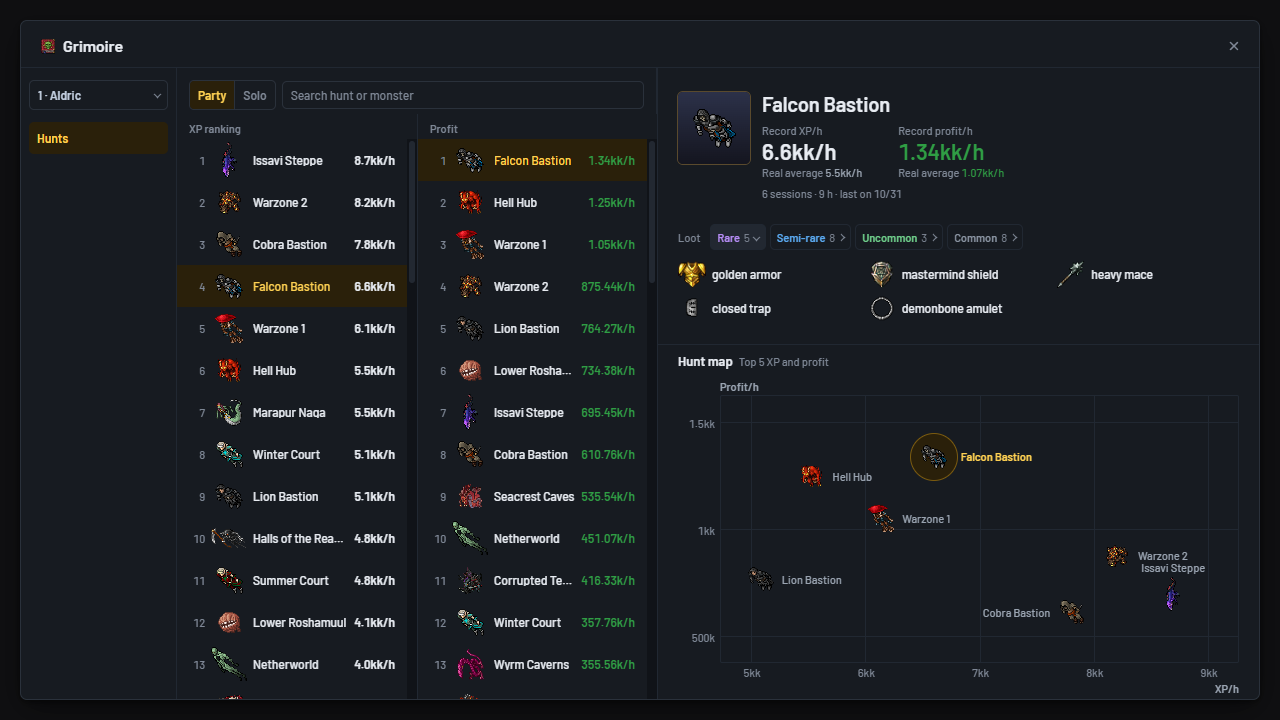
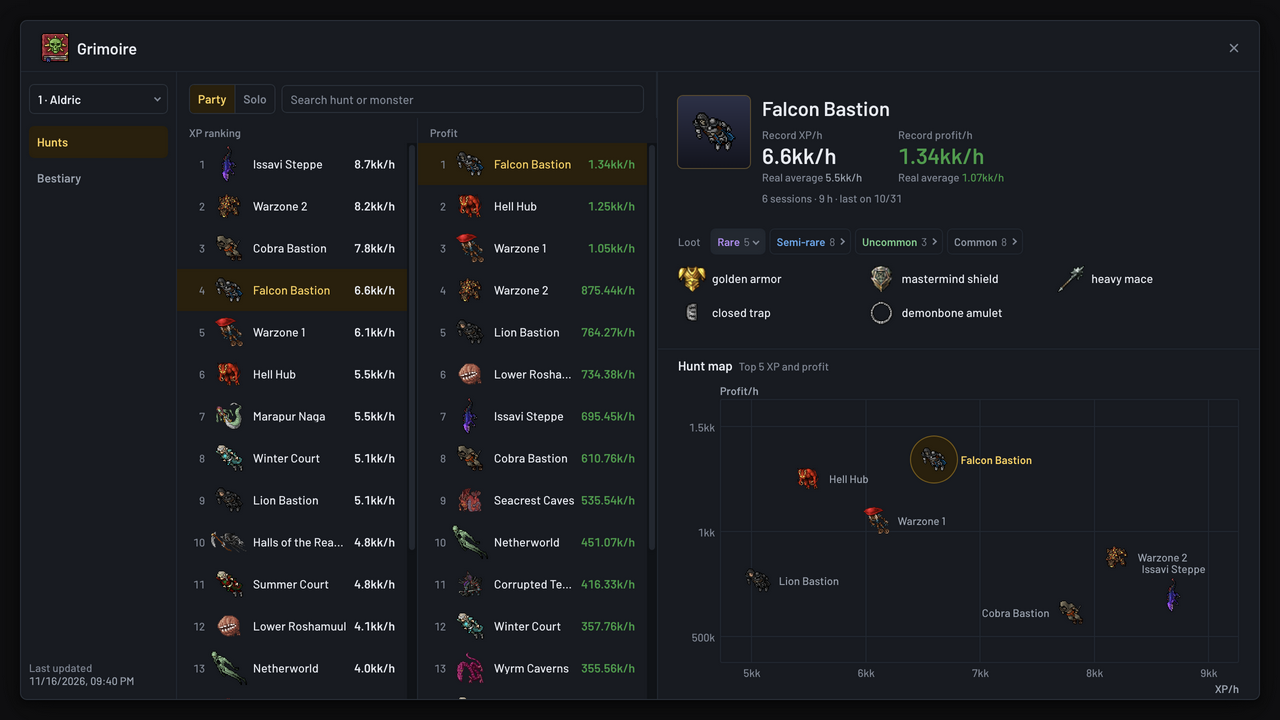
Atualiza a pagina do IdleXP (README.en.md, README.md, imagens/bestiario.en.png, imagens/bestiario.png, imagens/grimorio.en.png, imagens/grimorio.png)

diff --git a/README.en.md b/README.en.md
@@ -31,10 +31,50 @@
 
 ---
 
+## What you get
+
+- **Every account's XP/h and Profit/h, live**, without having to open any of their games.
+- **The hunt that pays best**, in an XP and a profit ranking with each hunt's loot.
+- **Your bestiary finished faster**, with a route of hunts in the most efficient order.
+- **A warning the moment** the hunt stops, the character dies or stamina, a prey or an imbuement
+  is running out.
+- **Four accounts and a calm PC**: up to 96% less processor with economy mode.
+
+### Every account's Hunt Analyzer, without opening the game
+
+In **economy mode** the account keeps hunting with the browser closed, and in place of the game
+there is this panel: XP/h, Profit/h and margin, the preys with the time left, the imbuements on
+each piece of gear and the hunt's bestiary, with how much is left for each stage. In the sidebar,
+the whole party with each member's DPS, healing and spend.
+
 <p align="center">
   <img src="imagens/painel-economia.en.png" alt="The economy mode panel, in three columns: XP per hour, profit, preys, your gear's imbuements and the hunt's bestiary, with the accounts and the party in the sidebar">
   <br>
   <sub>The economy mode panel. Illustrative image, with sample data.</sub>
+</p>
+
+### Which hunt gives the most XP and profit
+
+The **Grimoire** keeps the record of every hunt you have done, per account and per mode, party or
+solo. Two rankings side by side, each hunt's loot by rarity and a map that compares the best ones
+at a glance.
+
+<p align="center">
+  <img src="imagens/grimorio.en.png" alt="The Grimoire: the hunt ranking by XP and by profit, the sheet of the selected hunt with its loot by rarity, and the map comparing the best ones">
+  <br>
+  <sub>The Grimoire, Hunts tab. Illustrative image, with sample data.</sub>
+</p>
+
+### The shortest way through the bestiary
+
+On the **Bestiary** tab, the Grimoire crosses your kills with each hunt's speed and tells you which
+hunts give the most bestiary per hour of stamina, how long until each monster is done, and a route
+in the most efficient order, for the next level or for the next damage bonus.
+
+<p align="center">
+  <img src="imagens/bestiario.en.png" alt="The Grimoire's Bestiary: the hunts that give the most bestiary per hour, the fastest monsters to close, the sheet of the selected hunt with each monster's progress, and the most efficient route">
+  <br>
+  <sub>The Grimoire, Bestiary tab. Illustrative image, with sample data.</sub>
 </p>
 
 ## Why IdleXP
@@ -61,15 +101,8 @@ And each account that leaves the screen, on its own: from **776 MB and 27% of on
 same hunt and one signed out, two 60-second windows, the only difference being economy mode. The
 numbers on your PC will be different; the ratio is what counts.</sub>
 
-## What it does
+## Everything it does
 
-- **Four accounts, four saved logins.** Each account has its own space: one cannot see another, and
-  you do not have to sign in again every time you open the app. If you want, the app keeps each
-  account's e-mail and password, encrypted by your system's vault, and fills in the login page.
-- **The screen your way.** From 1 to 4 screens side by side, or one large one with the others
-  alongside, and the layouts turn with a monitor standing up. Drag the sidebar cards to swap the
-  accounts around, and collapse the sidebar to give the game more room. F1 to F4 switch accounts
-  from the keyboard (on the Mac, Cmd+1 to Cmd+4). Adjustable zoom and full screen.
 - **Economy mode.** The account keeps hunting, but with no browser open. In place of the game there
   is a panel in sections that collapse with a click: health, mana, stamina, level, **XP/h**,
   **Profit/h**, the active **preys**, the hunt's **bestiary**, with how much is left for each stage, and
@@ -82,28 +115,29 @@ numbers on your PC will be different; the ratio is what counts.</sub>
   the most efficient order. The numbers come from the game itself, and everything stays on your computer.
 - **Your party in the sidebar.** With at least one account in economy mode, the sidebar shows the
   party ordered from highest damage to lowest, with each member's **DPS**, healing and spend.
-- **Automatic economy.** In the 1-to-3-screen layouts, accounts that stay off screen enter economy
-  mode on their own after 2 minutes.
 - **Alerts you even with the app out of sight.** When an account in economy mode needs you — the
   hunt stopped, the character died, or stamina, a prey or an imbuement is running out — a system
   notification arrives, the icon flashes and a sound plays. On the bell in the sidebar you choose
   what alerts you, how far ahead and how.
-- **In Portuguese or English.** Pick the language on the globe in the opening window, before the
-  accounts load. The first time, the app follows your system's language.
+- **Automatic economy.** In the 1-to-3-screen layouts, accounts that stay off screen enter economy
+  mode on their own after 2 minutes.
+- **Four accounts, four saved logins.** Each account has its own space: one cannot see another, and
+  you do not have to sign in again every time you open the app. If you want, the app keeps each
+  account's e-mail and password, encrypted by your system's vault, and fills in the login page.
+- **The screen your way.** From 1 to 4 screens side by side, or one large one with the others
+  alongside, and the layouts turn with a monitor standing up. Drag the sidebar cards to swap the
+  accounts around, and collapse the sidebar to give the game more room. F1 to F4 switch accounts
+  from the keyboard (on the Mac, Cmd+1 to Cmd+4). Adjustable zoom and full screen.
 - **Hides names for screenshots and streams.** One click blacks out the character names in the app
   and, inside the game, on the map, in the party, in the header, in the Hunt Analyzer and in the friends
   and guild lists.
+- **In Portuguese or English.** Pick the language on the globe in the opening window, before the
+  accounts load. The first time, the app follows your system's language.
 - **Updates itself.** On opening, IdleXP checks for a new version, downloads and installs it before
   any account opens. You download once. (On the Mac, as long as it is in the Applications folder — see below.)
 
 > Economy mode follows the character while it hunts offline (VIP). It does not keep a hunt going
 > that the game would not keep going.
-
-<p align="center">
-  <img src="imagens/grimorio.en.png" alt="The Grimoire: the hunt ranking by XP and by profit, the sheet of the selected hunt with its loot by rarity, and the map comparing the best ones">
-  <br>
-  <sub>The Grimoire. Illustrative image, with sample data.</sub>
-</p>
 
 ## Install
 

diff --git a/README.md b/README.md
@@ -31,10 +31,50 @@
 
 ---
 
+## O que você ganha
+
+- **XP/h e Profit/h de cada conta, ao vivo**, sem precisar abrir o jogo de nenhuma delas.
+- **A caçada que mais rende**, num ranking de XP e de profit com o loot de cada uma.
+- **O bestiário fechado mais rápido**, com um roteiro de caçadas na ordem mais eficiente.
+- **Um aviso na hora** em que a caçada para, o personagem morre ou a stamina, uma prey ou um
+  imbuement está acabando.
+- **Quatro contas e o PC tranquilo**: até 96% menos processador com o modo economia.
+
+### Hunt Analyzer de cada conta, sem abrir o jogo
+
+No **modo economia** a conta continua caçando com o navegador fechado, e no lugar do jogo fica
+este painel: XP/h, Profit/h e rentabilidade, as preys com o tempo que resta, os imbuements de
+cada peça do equipamento e o bestiário da caçada, com quanto falta para cada fase. Na barra, a
+party inteira com o DPS, a cura e o gasto de cada um.
+
 <p align="center">
   <img src="imagens/painel-economia.png" alt="O painel do modo economia, em três colunas: XP por hora, profit, preys, imbuements do equipamento e bestiário da caçada, com as contas e a party na barra lateral">
   <br>
   <sub>O painel do modo economia. Imagem ilustrativa, com dados de exemplo.</sub>
+</p>
+
+### Qual caçada dá mais XP e mais profit
+
+O **Grimório** guarda o recorde de cada caçada que você fez, por conta e por modo, party ou solo.
+Dois rankings lado a lado, o loot de cada caçada por raridade e um mapa que compara as melhores
+de uma vez.
+
+<p align="center">
+  <img src="imagens/grimorio.png" alt="O Grimório: o ranking de caçadas por XP e por profit, a ficha da caçada selecionada com o loot por raridade, e o mapa comparando as melhores">
+  <br>
+  <sub>O Grimório, aba Caçadas. Imagem ilustrativa, com dados de exemplo.</sub>
+</p>
+
+### O caminho mais curto no bestiário
+
+Na aba **Bestiário**, o Grimório cruza os seus abates com a velocidade de cada caçada e diz quais
+rendem mais bestiário por hora de stamina, quanto falta para fechar cada monstro e um roteiro na
+ordem mais eficiente, para o próximo nível ou para o próximo bônus de dano.
+
+<p align="center">
+  <img src="imagens/bestiario.png" alt="O Bestiário do Grimório: as caçadas que mais rendem bestiário por hora, os monstros mais rápidos de fechar, a ficha da caçada selecionada com o progresso de cada monstro e o roteiro mais eficiente">
+  <br>
+  <sub>O Grimório, aba Bestiário. Imagem ilustrativa, com dados de exemplo.</sub>
 </p>
 
 ## Por que o IdleXP
@@ -61,15 +101,8 @@ E cada conta que sai da tela, sozinha: de **776 MB e 27% de um núcleo** para **
 e uma deslogada, duas janelas de 60 segundos, a única diferença sendo o modo economia. Os números
 do seu PC vão ser outros; a proporção é o que conta.</sub>
 
-## O que ele faz
+## Tudo o que ele faz
 
-- **Quatro contas, quatro logins salvos.** Cada conta tem o seu próprio espaço: uma não enxerga a
-  outra, e você não precisa entrar de novo toda vez que abre o app. Se quiser, o app guarda o e-mail
-  e a senha de cada conta, cifrados pelo cofre do seu sistema, e preenche a página de login.
-- **A tela do seu jeito.** De 1 a 4 telas lado a lado, ou uma grande com as outras ao lado, e os
-  arranjos giram com o monitor em pé. Arraste os cartões da barra para trocar as contas de lugar, e
-  recolha a barra para dar mais espaço ao jogo. F1 a F4 trocam de conta pelo teclado (no Mac,
-  Cmd+1 a Cmd+4). Zoom ajustável e tela cheia.
 - **Modo economia.** A conta continua caçando, mas sem navegador aberto. No lugar do jogo fica um
   painel em seções que recolhem com um clique: vida, mana, stamina, nível, **XP/h**, **Profit/h**, as
   **preys** ativas, o **bestiário** da caçada, com quanto falta para cada fase, e os **imbuements** do
@@ -82,27 +115,28 @@ do seu PC vão ser outros; a proporção é o que conta.</sub>
   mais eficiente. Os números vêm do próprio jogo, e tudo fica no seu computador.
 - **A party na barra lateral.** Com pelo menos uma conta em modo economia, a barra mostra a party
   ordenada do maior dano para o menor, com **DPS**, cura e gasto de cada membro.
-- **Economia automática.** Nos layouts de 1 a 3 telas, as contas que ficam fora da tela entram em
-  economia sozinhas depois de 2 minutos.
 - **Avisa mesmo com o app fora da tela.** Quando uma conta em modo economia pede atenção — a caçada
   parou, o personagem morreu, ou a stamina, uma prey ou um imbuement está acabando —, chega uma
   notificação do sistema, o ícone pisca e toca um som. No sino da barra você escolhe o que avisa,
   com quanto tempo de antecedência e de que jeito.
-- **Em português ou em inglês.** A língua se escolhe no globo da janela de abertura, antes de entrar
-  nas contas. Na primeira vez o app segue a língua do sistema.
+- **Economia automática.** Nos layouts de 1 a 3 telas, as contas que ficam fora da tela entram em
+  economia sozinhas depois de 2 minutos.
+- **Quatro contas, quatro logins salvos.** Cada conta tem o seu próprio espaço: uma não enxerga a
+  outra, e você não precisa entrar de novo toda vez que abre o app. Se quiser, o app guarda o e-mail
+  e a senha de cada conta, cifrados pelo cofre do seu sistema, e preenche a página de login.
+- **A tela do seu jeito.** De 1 a 4 telas lado a lado, ou uma grande com as outras ao lado, e os
+  arranjos giram com o monitor em pé. Arraste os cartões da barra para trocar as contas de lugar, e
+  recolha a barra para dar mais espaço ao jogo. F1 a F4 trocam de conta pelo teclado (no Mac,
+  Cmd+1 a Cmd+4). Zoom ajustável e tela cheia.
 - **Esconde os nomes para print e live.** Um clique tarja os nomes dos personagens no app e, dentro
   do jogo, no mapa, na party, no cabeçalho, no Analisador de caçada e nas listas de amigos e da guild.
+- **Em português ou em inglês.** A língua se escolhe no globo da janela de abertura, antes de entrar
+  nas contas. Na primeira vez o app segue a língua do sistema.
 - **Se atualiza sozinho.** Ao abrir, o IdleXP confere se há versão nova, baixa e instala antes de
   qualquer conta abrir. Você baixa uma vez só. (No Mac, desde que esteja na pasta Aplicativos — veja abaixo.)
 
 > O modo economia acompanha o personagem enquanto ele caça offline (VIP). Ele não mantém uma
 > caçada que o jogo não manteria.
-
-<p align="center">
-  <img src="imagens/grimorio.png" alt="O Grimório: o ranking de caçadas por XP e por profit, a ficha da caçada selecionada com o loot por raridade, e o mapa comparando as melhores">
-  <br>
-  <sub>O Grimório. Imagem ilustrativa, com dados de exemplo.</sub>
-</p>
 
 ## Instalar
 
